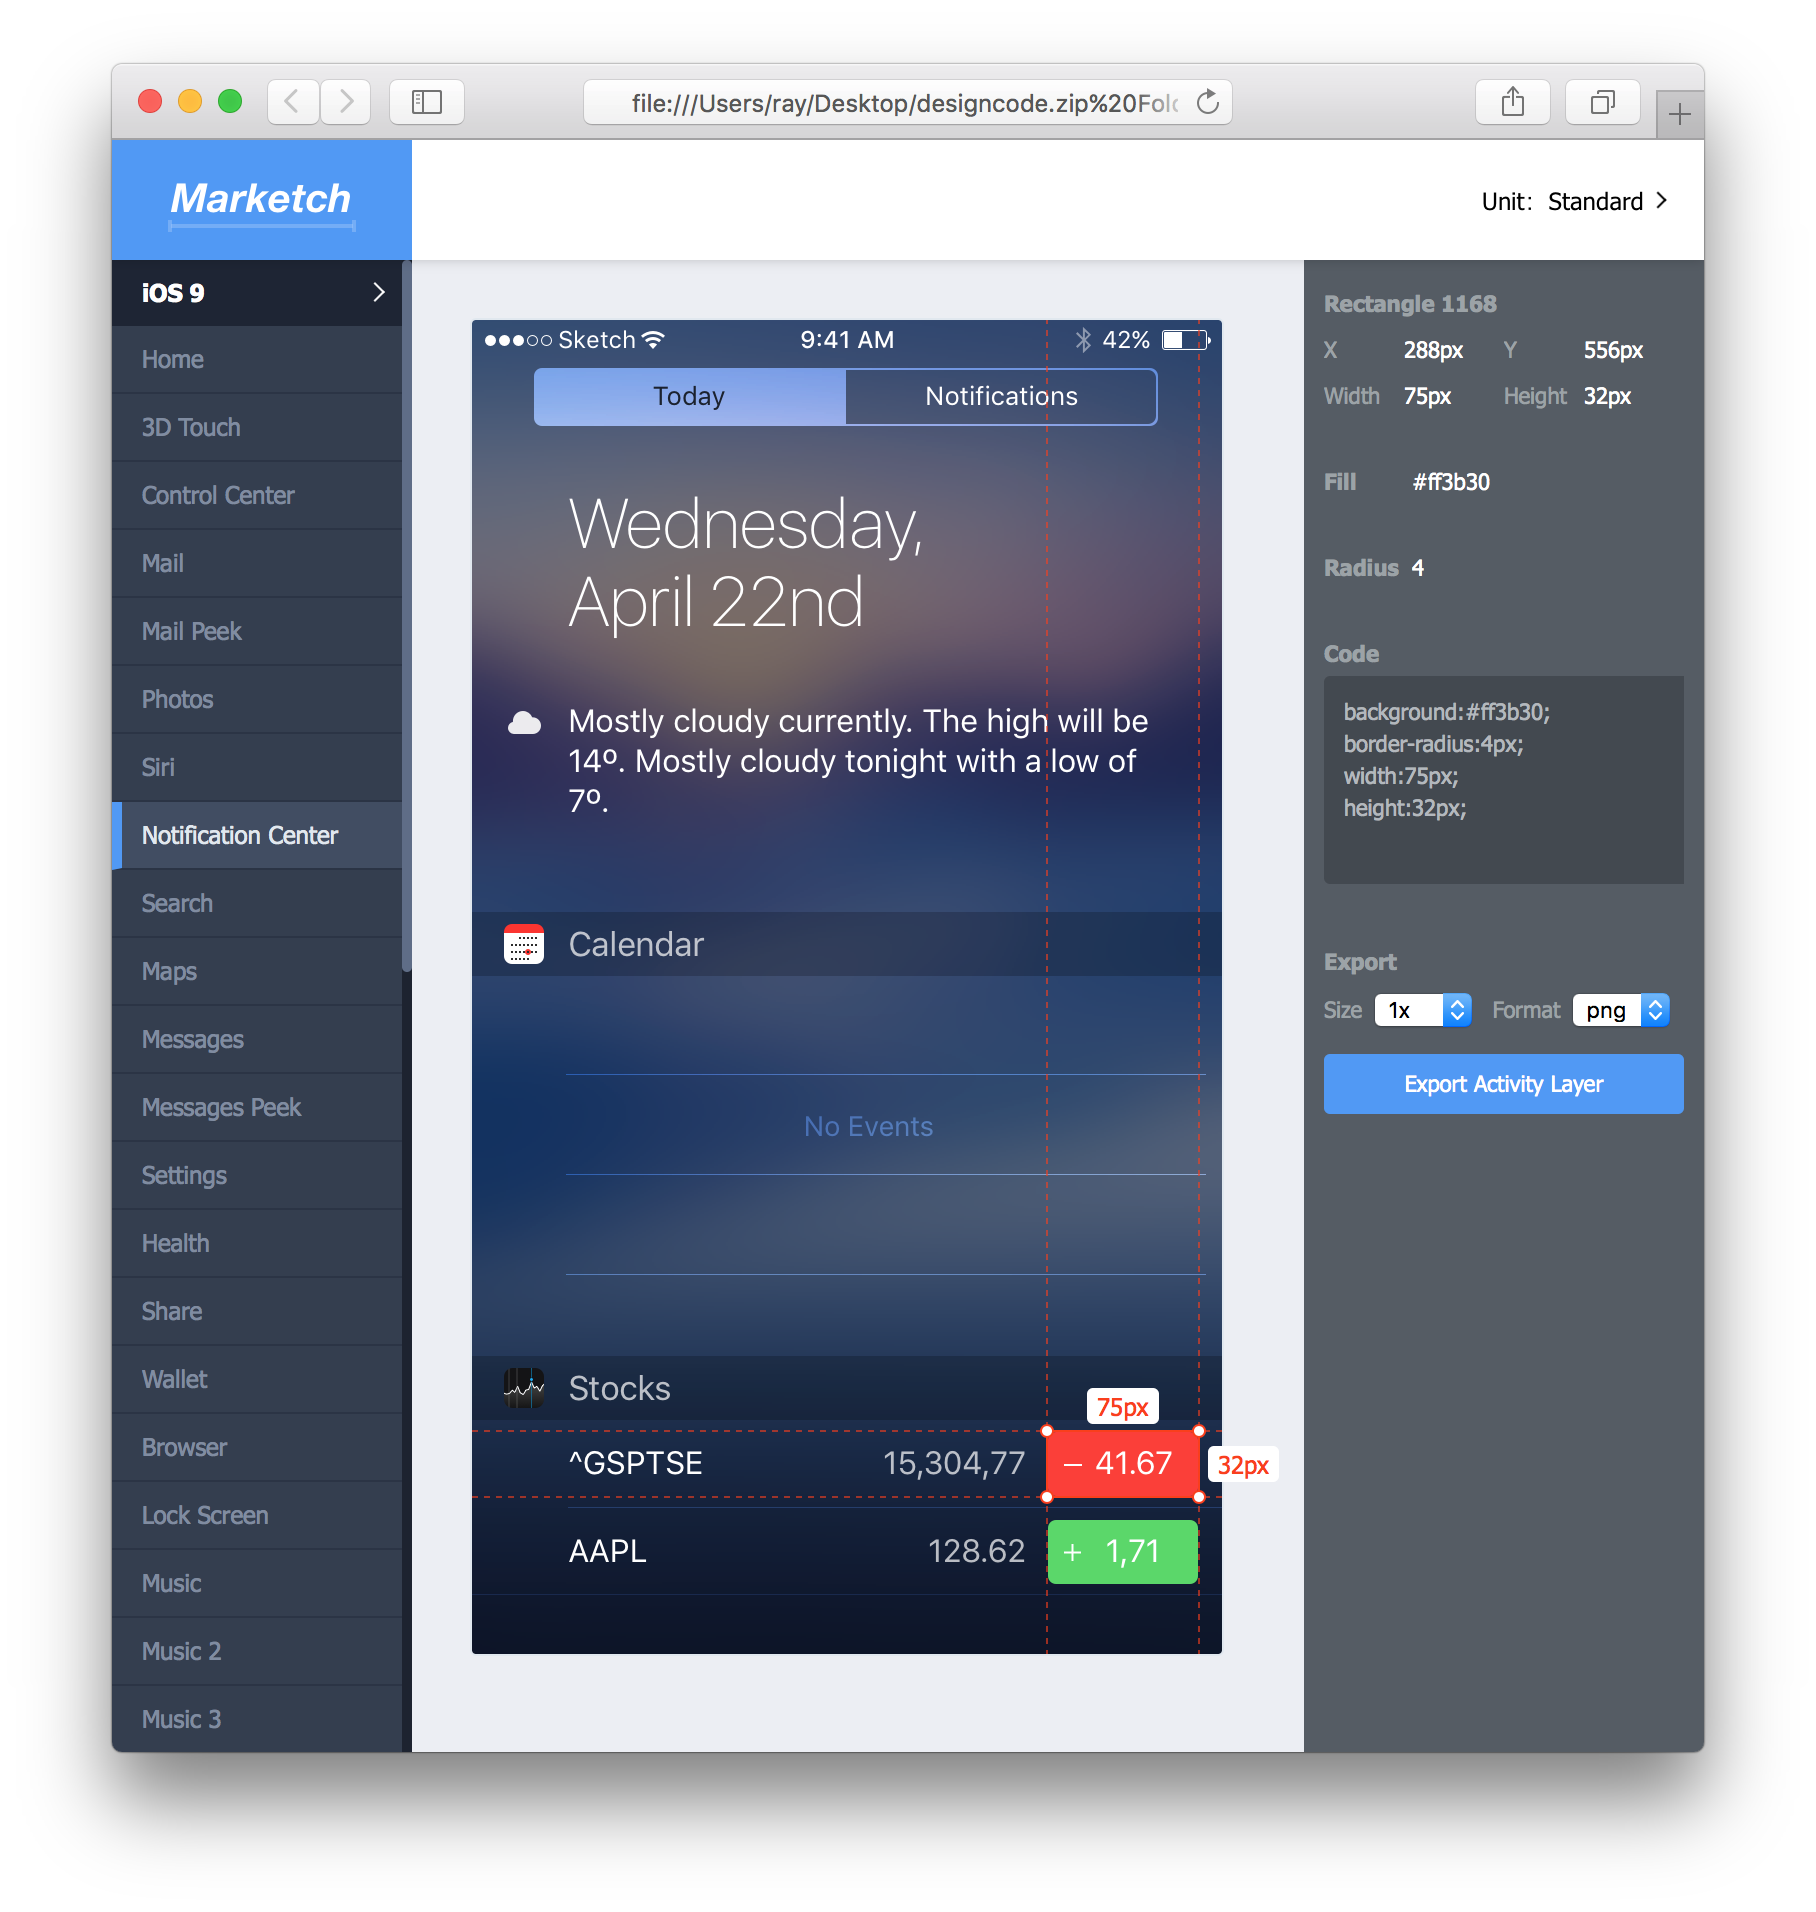
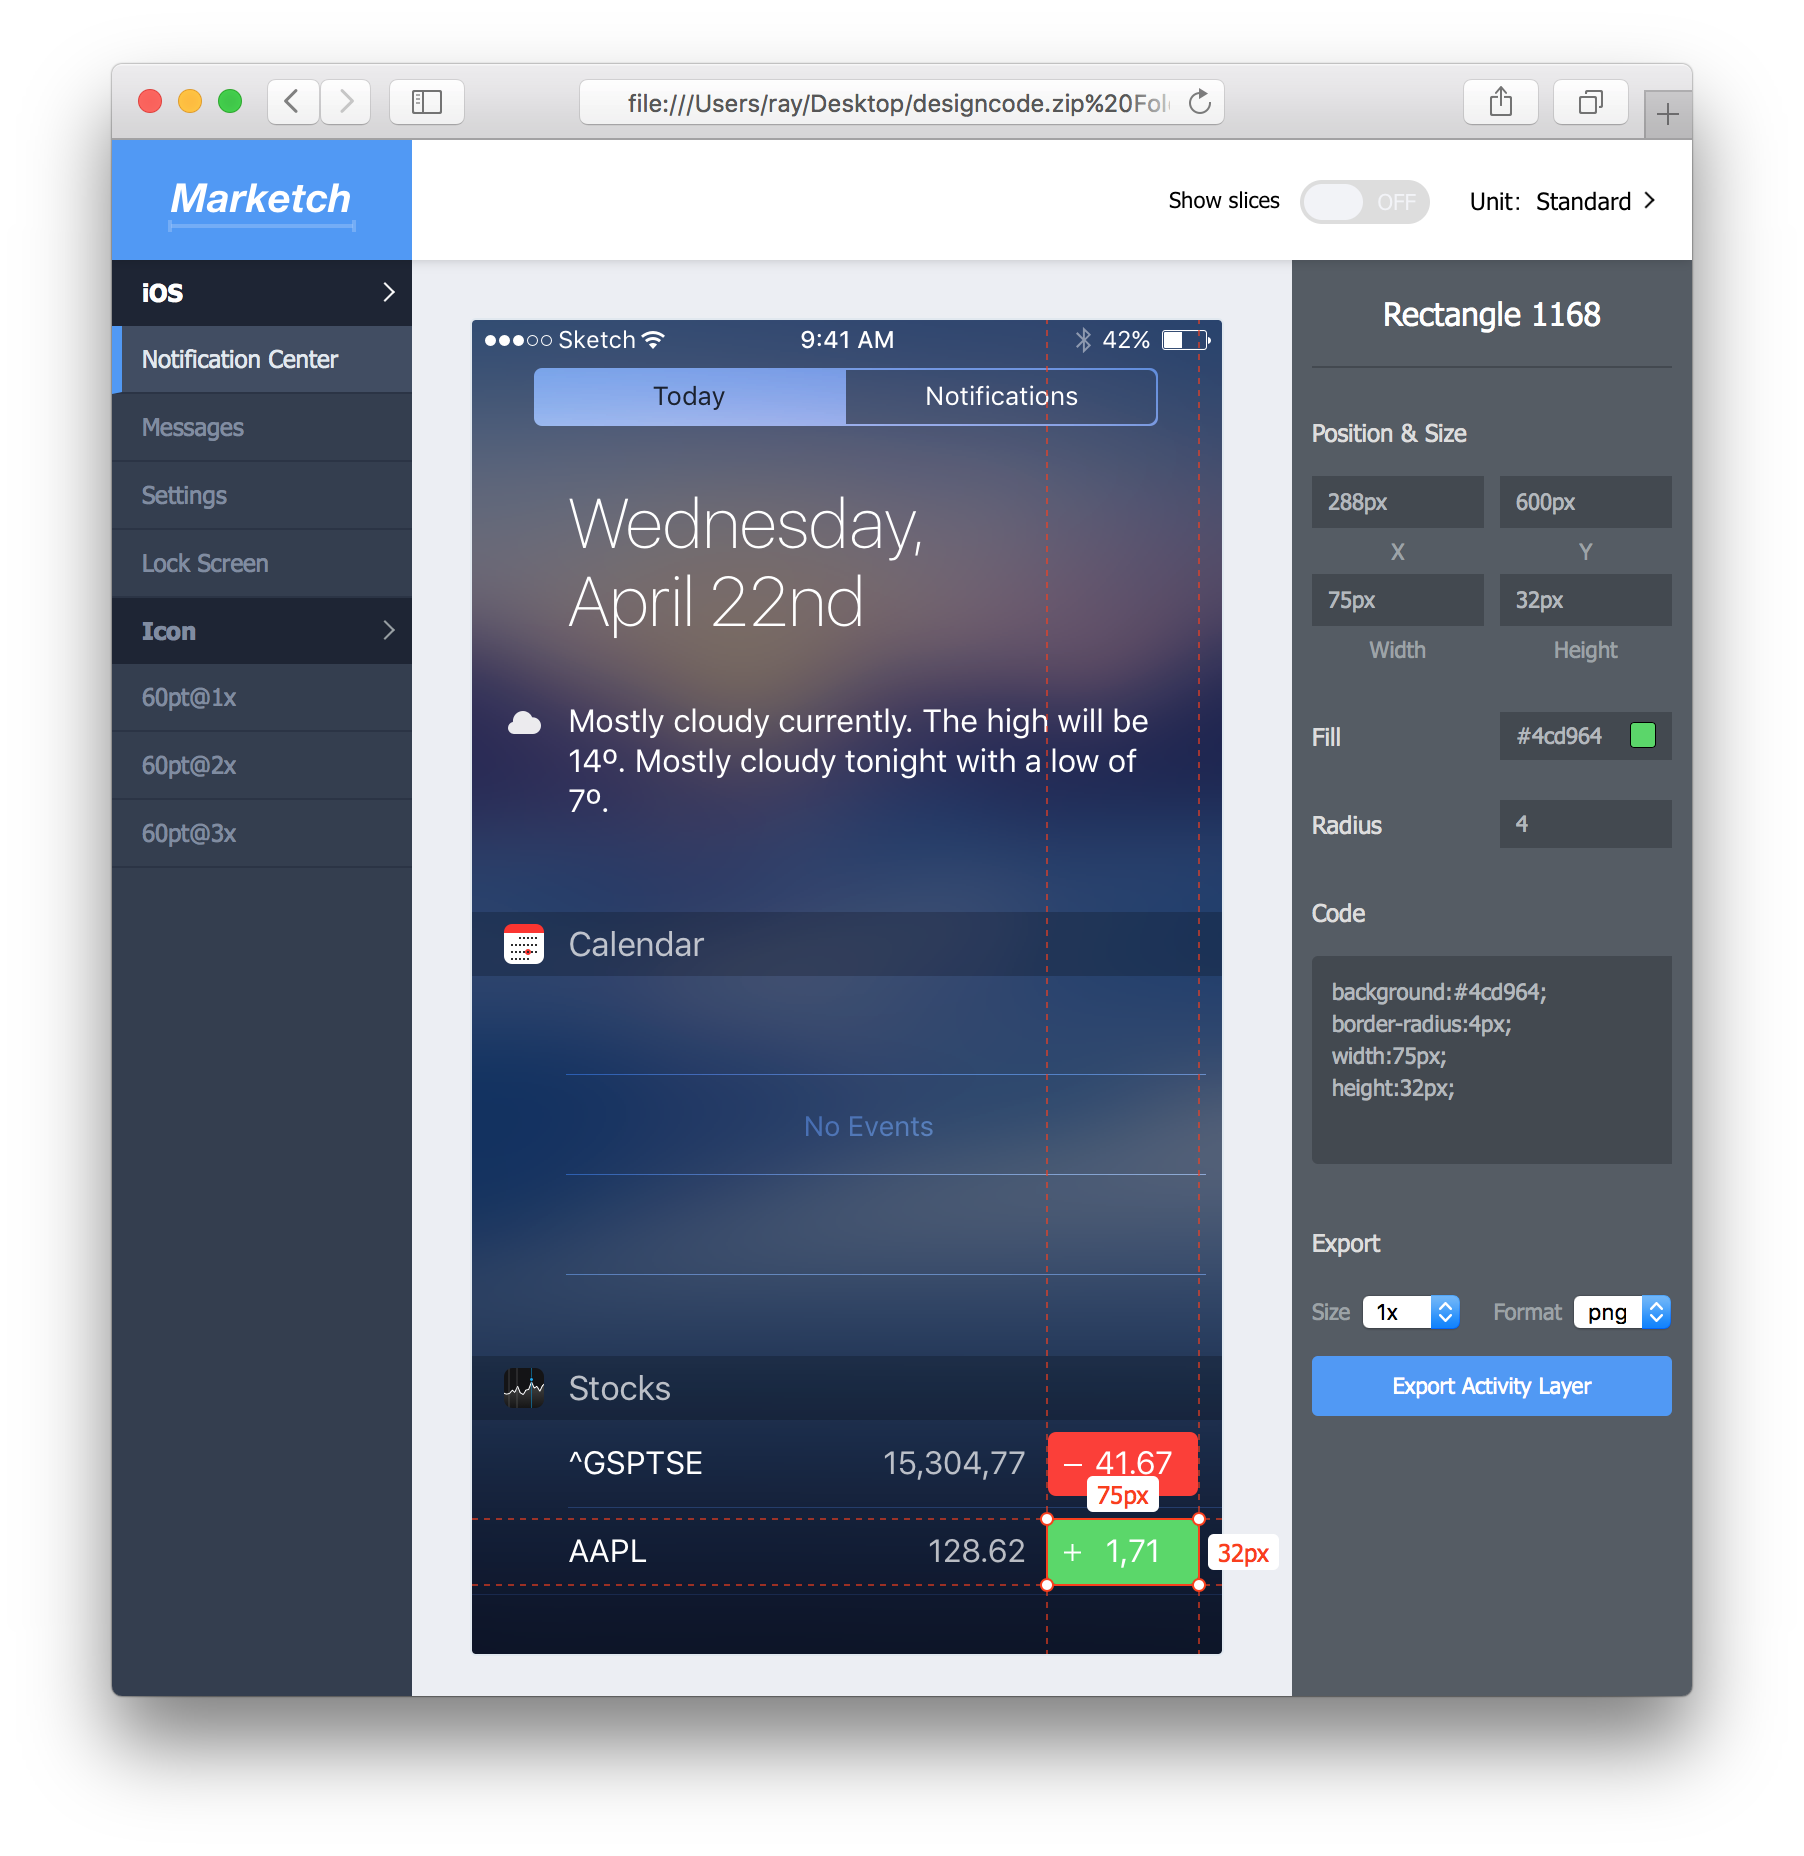
Update Version & Readme

diff --git a/README.md b/README.md
@@ -4,6 +4,9 @@ Marketch is a Sketch 3 plug-in for automatically generating html page that can m
 
 ## Change Log 
 
+#### `v1.0.18`
+* [update] new interface
+
 #### `v1.0.13`
 * [update] support sketch 3.5
 
@@ -57,3 +60,4 @@ If you want to contribute to our code base, here's a [contribution guide](contri
 * [MForever78](https://github.com/MForever78)
 * [noyobo](https://github.com/noyobo)
 * [xunuo](https://github.com/xunuo)
+* [rayps](https://github.com/rayps)
